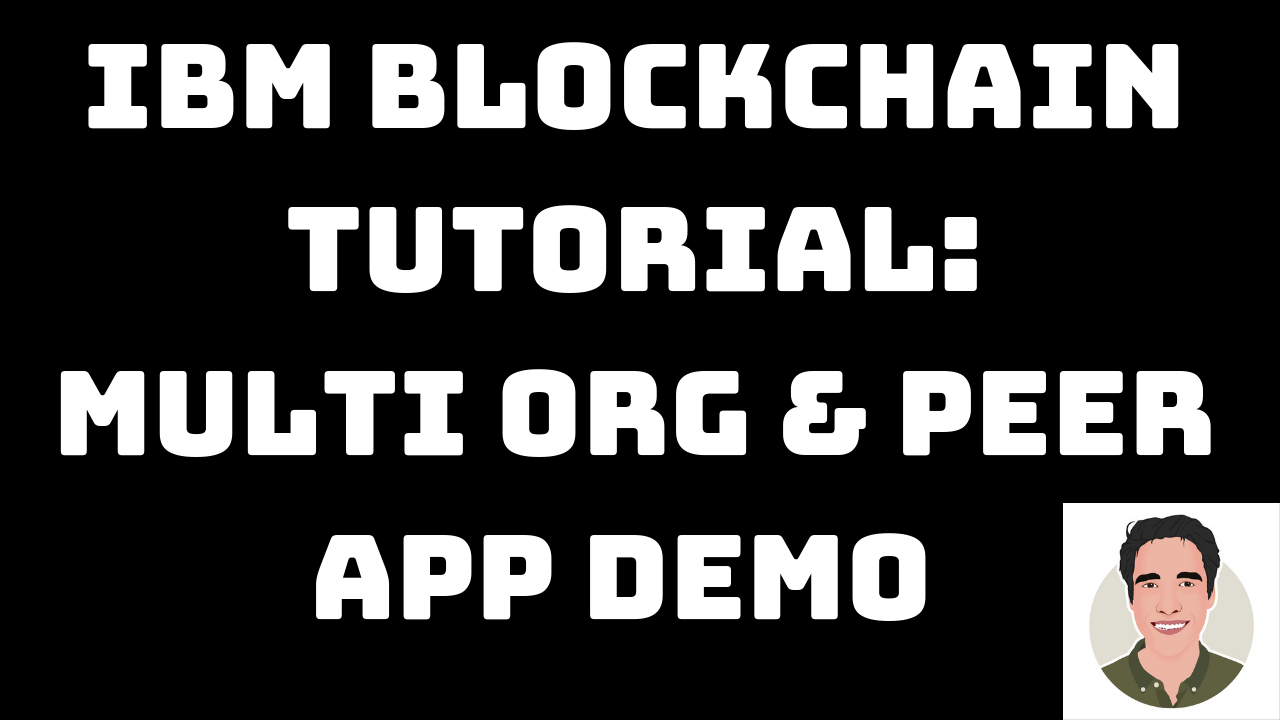
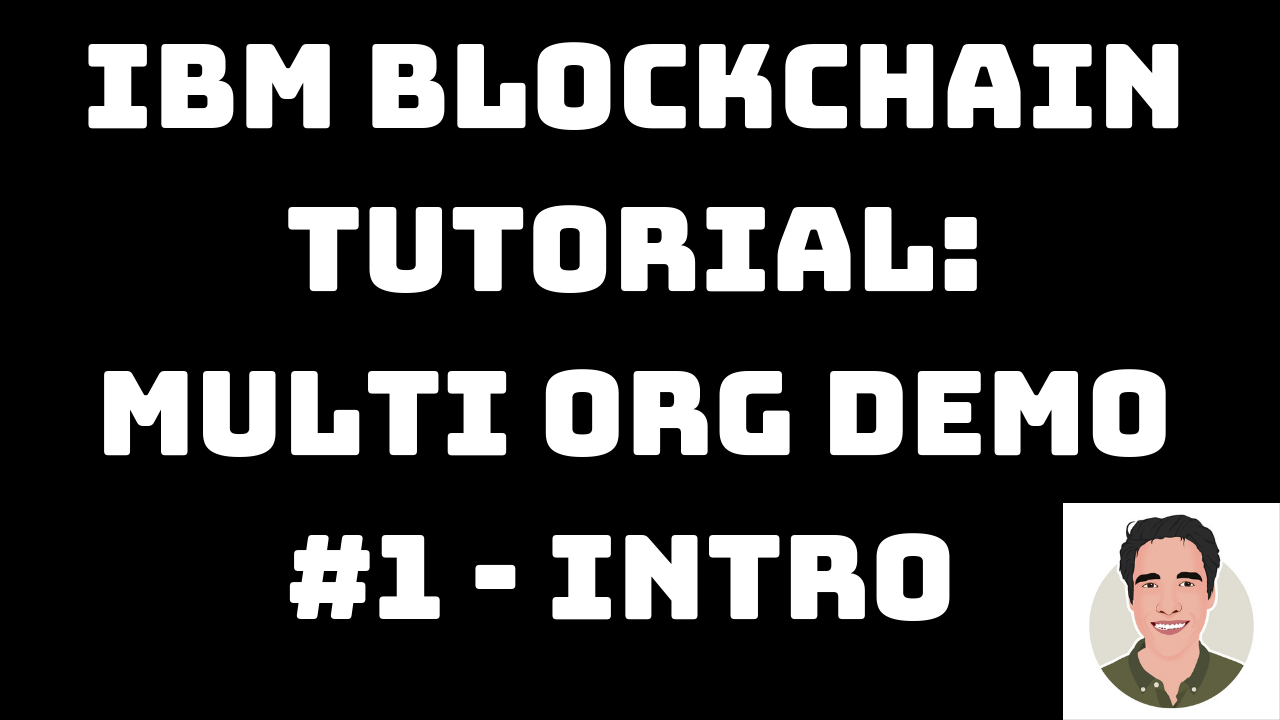
add part 2/3 of videos

Changed region(s): [[0.0312, 0.4889, 0.9688, 0.6417], [0.2188, 0.7333, 0.75, 0.8861]]

diff --git a/README.md b/README.md
@@ -48,7 +48,15 @@ Service, and the operator installs and instantiates the smart contract on the ne
 
 # Watch the Video - Multiple Organization and Multiple Peer App Demo #1 - Intro 
 
-[![](images/part1.png)](https://www.youtube.com/watch?v=Lr3EFKayP0o&t=30s)
+[![](images/part1.png)](https://www.youtube.com/watch?v=Lr3EFKayP0o)
+
+# Watch the Video - IBM Blockchain Tutorial: Multiple Organization and Multiple Peer App Demo #2 - Build Nodes 
+
+[![](images/part2.png)](https://www.youtube.com/watch?v=wi6i28vRigs)
+
+# Watch the Video - Multiple Organization and Multiple Peer App Demo #1 - Intro 
+
+[![](images/part3.png)](https://www.youtube.com/watch?v=3dRckqZvFqw)
 
 ## Prerequisites
 We find that Blockchain can be finicky when it comes to installing Node. We want to share this [StackOverflow response](https://stackoverflow.com/questions/49744276/error-cannot-find-module-api-hyperledger-composer) - because many times the errors you see with Compose are derived in having installed either the wrong Node version or took an approach that is not supported by Compose:
